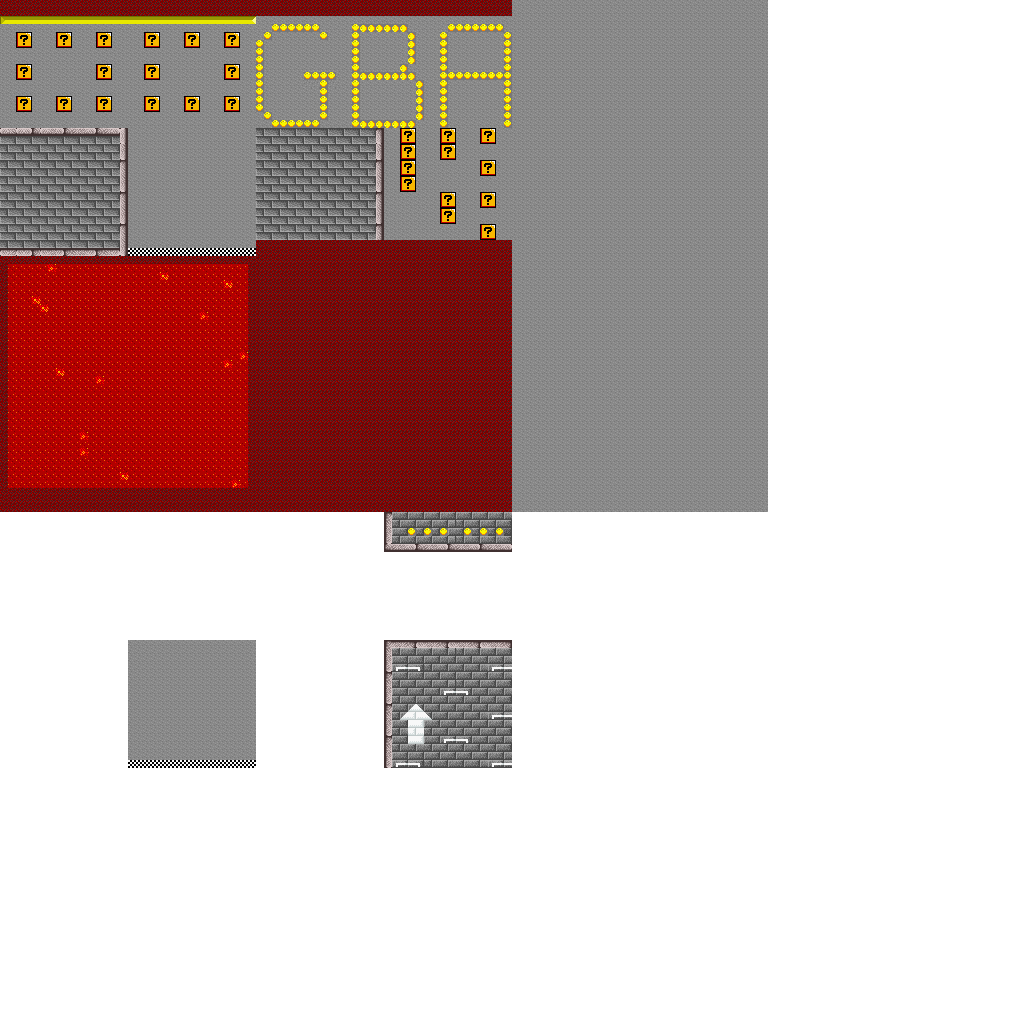
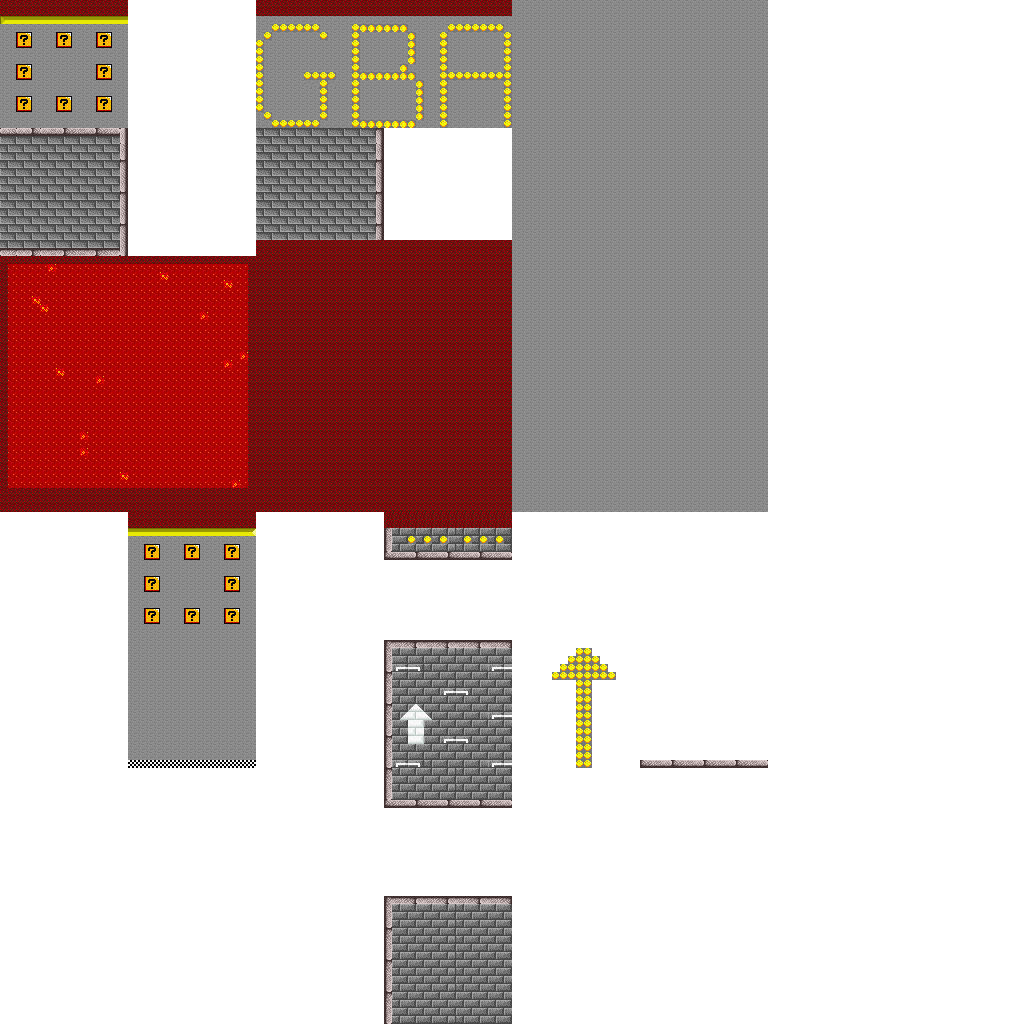
better directional texturing

diff --git a/mode7.iwram.c b/mode7.iwram.c
@@ -29,7 +29,7 @@ typedef struct {
 } raycast_input_t;
 
 typedef struct {
-	int side;
+	enum {N_SIDE, S_SIDE, E_SIDE, W_SIDE} side;
 	FIXED perp_wall_dist;
 	FIXED dist_y, dist_z;
 	int map_y, map_z;
@@ -58,37 +58,43 @@ m7_hbl() {
 	REG_BLDY = BLDY_BUILD(ey);
 
 	/* windowing */
-	REG_WIN0H = floor_level.winh[vc + 1];
+	u8 draw_start = MIN(floor_level.winh[vc + 1] >> 8, wall_level.winh[vc + 1] >> 8);
+	u8 draw_end  = MAX(floor_level.winh[vc + 1] & 0xFF, wall_level.winh[vc + 1] & 0xFF);
+	REG_WIN0H = WIN_BUILD(draw_end, draw_start);
 	REG_WIN0V = SCREEN_HEIGHT;
 }
 
 IWRAM_CODE void
-m7_prep_affines(m7_level_t *level) {
+m7_prep_affines(m7_level_t *level_2, m7_level_t *level_3) {
 	raycast_input_t rin;
-	raycast_output_t rout;
+	raycast_output_t routs[2];
+	m7_level_t *levels[2] = {level_3, level_2};
 
-	int h;
-	BG_AFFINE *bg_aff_ptr;
-	u16 *winh_ptr;
-	for (h = 0, bg_aff_ptr = &level->bgaff[0], winh_ptr = &level->winh[0];
-		h < SCREEN_HEIGHT;
-		h++, bg_aff_ptr++, winh_ptr++) {
+	m7_cam_t *cam = level_2->camera;
 
-		init_raycast(level->camera, h, &rin);
-		raycast(level, &rin, &rout);
+	for (int h = 0; h < SCREEN_HEIGHT; h++) {
 
-		FIXED lambda = fxdiv(rout.perp_wall_dist, level->camera->fov) / PIX_PER_BLOCK;
+		init_raycast(cam, h, &rin);
 
-		compute_affines(level, &rin, &rout, lambda, bg_aff_ptr);
-		compute_windows(level, lambda, winh_ptr);
+		FIXED lambda;
+		for (int bg = 0; bg < 2; bg++) {
+			raycast(levels[bg], &rin, &routs[bg]);
+
+			lambda = fxdiv(routs[bg].perp_wall_dist, cam->fov) / PIX_PER_BLOCK;
+
+			compute_affines(levels[bg], &rin, &routs[bg], lambda, &levels[bg]->bgaff[h]);
+			compute_windows(levels[bg], lambda, &levels[bg]->winh[h]);
+		}
 
 		/* for shading. pb and pd aren't used (q_y is implicitly zero) */
-		bg_aff_ptr->pb = lambda;
+		levels[0]->bgaff[h].pb = lambda;
 	}
 
 	/* needed to correctly scale last scanline */
-	level->bgaff[SCREEN_HEIGHT] = level->bgaff[0];
-	level->winh[SCREEN_HEIGHT]  = level->winh[0];
+	level_2->bgaff[SCREEN_HEIGHT] = level_2->bgaff[0];
+	level_2->winh[SCREEN_HEIGHT]  = level_2->winh[0];
+	level_3->bgaff[SCREEN_HEIGHT] = level_3->bgaff[0];
+	level_3->winh[SCREEN_HEIGHT]  = level_3->winh[0];
 }
 
 /* raycasting implementations */
@@ -159,11 +165,11 @@ raycast(const m7_level_t *level, const raycast_input_t *rin, raycast_output_t *r
 		if (rout.dist_y < rout.dist_z) {
 			rout.dist_y += rin->delta_dist_y;
 			rout.map_y  += rin->delta_map_y;
-			rout.side    = 0;
+			rout.side    = (rin->delta_map_y < 0) ? N_SIDE : S_SIDE;
 		} else {
 			rout.dist_z += rin->delta_dist_z;
 			rout.map_z  += rin->delta_map_z;
-			rout.side    = 1;
+			rout.side    = (rin->delta_map_z < 0) ? W_SIDE : E_SIDE;
 		}
 
 		if (level->blocks[rout.map_y * level->blocks_width + rout.map_z] > 0) {
@@ -172,7 +178,7 @@ raycast(const m7_level_t *level, const raycast_input_t *rin, raycast_output_t *r
 	}
 
 	/* calculate wall distance */
-	if (rout.side == 0) {
+	if ((rout.side == N_SIDE) || (rout.side == S_SIDE)) {
 		rout.perp_wall_dist = fxdiv(
 			fxadd(
 				fxsub(int2fx(rout.map_y), level->camera->pos.y),
@@ -206,27 +212,39 @@ compute_affines(const m7_level_t *level, const raycast_input_t *rin, const rayca
 	bg_aff_ptr->dx = fxadd(fxmul(lambda, int2fx(M7_LEFT)), a_x * PIX_PER_BLOCK);
 
 	/* move side to correct texture source */
-	if (rout->side == 1) {
+	if (((rout->side == E_SIDE) || (rout->side == W_SIDE))) {
 		bg_aff_ptr->dx += int2fx(level->texture_width);
 	}
 
 	/* calculate angle corrections (angles are .12f) */
 	FIXED correction;
-	if (rout->side == 0) {
+	if ((rout->side == N_SIDE) || (rout->side == S_SIDE)) {
 		correction = fxadd(fxmul(rout->perp_wall_dist, rin->ray_z), a_z);
 	} else {
 		correction = fxadd(fxmul(rout->perp_wall_dist, rin->ray_y), a_y);
 	}
 	correction *= PIX_PER_BLOCK;
 
-	/* wrap texture for ceiling */
-	if (((rout->side == 0) && (rin->ray_y > 0)) ||
-		((rout->side == 1) && (rin->ray_z < 0))) {
-		correction = fxsub(int2fx(level->texture_height), correction);
-	}
-
 	/* apply correction */
 	bg_aff_ptr->dy = correction;
+
+	/* wrap texture for ceiling */
+	if ((((rout->side == N_SIDE) || (rout->side == S_SIDE)) && (rin->ray_y > 0)) ||
+		(((rout->side == E_SIDE) || (rout->side == W_SIDE)) && (rin->ray_z < 0))) {
+		bg_aff_ptr->dy = fxsub(int2fx(level->texture_height), bg_aff_ptr->dy);
+	}
+
+	if (rout->side == N_SIDE) {
+		bg_aff_ptr->dx += int2fx(level->texture_height);
+	}
+	else if (rout->side == W_SIDE) {
+		bg_aff_ptr->dy += int2fx(level->texture_width);
+	}
+
+	/* offset down for bg2 */
+	if (level->bgcnt & BG_PRIO(1)) {
+		bg_aff_ptr->dy += int2fx(level->texture_height);
+	}
 }
 
 IWRAM_CODE static void
@@ -241,7 +259,7 @@ compute_windows(const m7_level_t *level, FIXED lambda, u16 *winh_ptr) {
 			lambda)
 		* PIX_PER_BLOCK);
 
-	int draw_start = -line_height / 2 + M7_RIGHT - a_x_offs;
+	int draw_start = (-line_height) / 2 + M7_RIGHT - a_x_offs + 1;
 	draw_start = CLAMP(draw_start, 0, M7_RIGHT);
 
 	int draw_end = line_height / 2 + M7_RIGHT - a_x_offs;

diff --git a/main.c b/main.c
@@ -27,8 +27,8 @@ char *dbg_str;
 /* block mappings */
 #define M7_CBB 0
 #define FLOOR_SBB 24
-#define M7_PRIO 2
-#define WALL_PRIO 3
+#define FLOOR_PRIO 2
+#define WALL_PRIO 1
 
 #define TTE_CBB 2
 #define TTE_SBB 18
@@ -66,20 +66,39 @@ const int fanroom_floor_blocks[16 * 32] = {
   1,0,0,0,0,0,0,0, 0,0,0,0,0,0,0,0, 0,0,0,0,0,0,0,0, 0,0,0,0,0,0,0,1,
   1,0,0,0,0,0,0,0, 0,0,0,0,0,0,0,0, 0,0,0,0,0,0,0,0, 0,0,0,0,0,0,0,1,
   1,0,0,0,0,0,0,0, 0,0,0,0,0,0,0,0, 0,0,0,0,0,0,0,0, 0,0,0,0,0,0,0,1,
-  1,0,0,0,0,0,0,0, 0,0,0,0,0,0,0,0, 0,0,0,0,0,0,0,1, 1,1,1,1,1,1,1,1,
-  1,0,0,0,0,0,0,0, 0,0,0,0,0,0,0,0, 0,0,0,0,0,0,1,0, 0,0,0,0,0,0,0,1,
-  1,0,0,0,0,0,0,0, 0,0,0,0,0,0,0,0, 0,0,0,0,0,1,0,0, 0,0,0,0,0,0,0,1,
-  1,0,0,0,0,0,0,0, 0,0,0,0,0,0,0,0, 0,0,0,0,1,0,0,0, 0,0,0,0,0,0,0,1,
-  1,0,0,0,0,0,0,0, 0,0,0,0,0,0,0,0, 0,0,0,1,0,0,0,0, 0,0,0,0,0,0,0,1,
-  1,0,0,0,0,0,0,0, 0,0,0,0,0,0,0,0, 0,0,1,0,0,0,0,0, 0,0,0,0,0,0,0,1,
+  1,0,0,0,0,0,0,0, 0,0,0,0,0,0,0,0, 0,0,0,0,0,0,0,2, 2,2,2,2,2,2,2,1,
+  1,0,0,0,0,0,0,0, 0,0,0,0,0,0,0,0, 0,0,0,0,0,0,2,0, 0,0,0,0,0,0,0,1,
+  1,0,0,0,0,0,0,0, 0,0,0,0,0,0,0,0, 0,0,0,0,0,2,0,0, 0,0,0,0,0,0,0,1,
+  1,0,0,0,0,0,0,0, 0,0,0,0,0,0,0,0, 0,0,0,0,2,0,0,0, 0,0,0,0,0,0,0,1,
+  1,0,0,0,0,0,0,0, 0,0,0,0,0,0,0,0, 0,0,0,2,0,0,0,0, 0,0,0,0,0,0,0,1,
+  1,0,0,0,0,0,0,0, 0,0,0,0,0,0,0,0, 0,0,2,0,0,0,0,0, 0,0,0,0,0,0,0,1,
   1,0,0,0,0,0,0,0, 0,0,0,0,0,0,0,0, 0,2,0,0,0,0,0,0, 0,0,0,0,0,0,0,1,
+  1,1,1,1,1,1,1,1, 1,1,1,1,1,1,1,1, 1,1,1,1,1,1,1,1, 1,1,1,1,1,1,1,1
+};
+
+const int fanroom_wall_blocks[16 * 32] = {
+  1,1,1,1,1,1,1,1, 1,1,1,1,1,1,1,1, 1,1,1,1,1,1,1,1, 1,1,1,1,1,1,1,1,
+  1,0,0,0,0,0,0,0, 0,0,0,0,0,0,0,0, 2,0,0,0,0,0,0,0, 0,0,0,0,0,0,0,1,
+  1,0,0,0,0,0,0,0, 0,0,0,0,0,0,0,0, 2,0,0,0,0,0,0,0, 0,0,0,0,0,0,0,1,
+  1,0,0,0,0,0,0,0, 0,0,0,0,0,0,0,0, 0,0,0,0,0,0,0,0, 0,0,0,0,0,0,0,1,
+  1,0,0,0,0,0,0,0, 0,0,0,0,0,0,0,0, 0,0,0,0,0,0,0,0, 0,0,0,0,0,0,0,1,
+  1,0,0,0,0,0,0,0, 0,0,0,0,0,0,0,0, 0,0,0,0,0,0,0,0, 0,0,0,0,0,0,0,1,
+  1,0,0,0,0,0,0,0, 0,0,0,0,0,0,0,0, 0,0,0,0,0,0,0,0, 0,0,0,0,0,0,0,1,
+  1,0,0,0,0,0,0,0, 0,0,0,0,0,0,0,0, 0,0,0,0,0,0,0,0, 0,0,0,0,0,0,0,1,
+  1,0,0,0,0,0,0,0, 0,0,0,0,0,0,0,0, 2,2,2,2,2,2,2,2, 2,2,2,2,2,2,2,1,
+  1,0,0,0,0,0,0,0, 0,0,0,0,0,0,0,0, 2,0,0,0,0,0,0,0, 0,0,0,0,0,0,0,1,
+  1,0,0,0,0,0,0,0, 0,0,0,0,0,0,0,0, 2,0,0,0,0,0,0,0, 0,0,0,0,0,0,0,1,
+  1,0,0,0,0,0,0,0, 0,0,0,0,0,0,0,0, 2,0,0,0,0,0,0,0, 0,0,0,0,0,0,0,1,
+  1,0,0,0,0,0,0,0, 0,0,0,0,0,0,0,0, 2,0,0,0,0,0,0,0, 0,0,0,0,0,0,0,1,
+  1,0,0,0,0,0,0,0, 0,0,0,0,0,0,0,0, 2,0,0,0,0,0,0,0, 0,0,0,0,0,0,0,1,
+  1,0,0,0,0,0,0,0, 0,0,0,0,0,0,0,0, 2,0,0,0,0,0,0,0, 0,0,0,0,0,0,0,1,
   1,1,1,1,1,1,1,1, 1,1,1,1,1,1,1,1, 1,1,1,1,1,1,1,1, 1,1,1,1,1,1,1,1
 };
 
 void init_map() {
 	/* layout level */
 	floor_level.blocks = (int*)fanroom_floor_blocks;
-	wall_level.blocks = (int*)fanroom_floor_blocks;
+	wall_level.blocks = (int*)fanroom_wall_blocks;
 
 	floor_level.blocks_width = 32; floor_level.blocks_height = 16;
 	wall_level.blocks_width = 32; wall_level.blocks_height = 16;
@@ -92,7 +111,7 @@ void init_map() {
 
 	/* init mode 7 */
 	m7_init(&floor_level, &m7_cam, floor_bgaff_arr, floor_winh,
-		BG_CBB(M7_CBB) | BG_SBB(FLOOR_SBB) | BG_AFF_128x128 | BG_PRIO(M7_PRIO), 3);
+		BG_CBB(M7_CBB) | BG_SBB(FLOOR_SBB) | BG_AFF_128x128 | BG_PRIO(FLOOR_PRIO), 3);
 	m7_init(&wall_level, &m7_cam, wall_bgaff_arr, wall_winh,
 		BG_CBB(M7_CBB) | BG_SBB(FLOOR_SBB) | BG_AFF_128x128 | BG_PRIO(WALL_PRIO), 2);
 	m7_cam = m7_cam_default;
@@ -169,7 +188,7 @@ int main() {
 		camera_update(&dir);
 
 		/* update affine matrices */
-		m7_prep_affines(&floor_level);
+		m7_prep_affines(&wall_level, &floor_level);
 
 		/* update hud */
 #ifdef TTE_ENABLED

diff --git a/mode7.h b/mode7.h
@@ -54,7 +54,7 @@ void m7_translate_local(m7_level_t *level, const VECTOR *dir);
 void m7_translate_level(m7_level_t *level, const VECTOR *dir);
 
 /* iwram code */
-IWRAM_CODE void m7_prep_affines(m7_level_t *level);
+IWRAM_CODE void m7_prep_affines(m7_level_t *level_2, m7_level_t *level_3);
 IWRAM_CODE void m7_hbl();
 
 #endif
